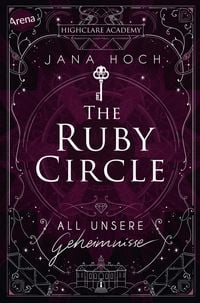
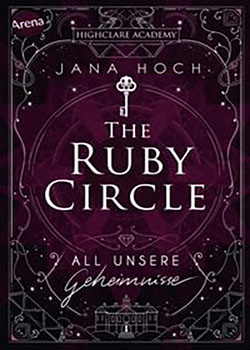
Bilder optimiert

diff --git a/hauptseite.php b/hauptseite.php
@@ -130,7 +130,7 @@
                                 <div class="col-md-3">
                                     <div class="product-item">
                                         <figure class="product-style">
-                                            <img src="bilder/1.jpg" alt="book" class="porduct-item">
+                                            <img src="bilder/12.png" alt="book" class="porduct-item">
                                             <button type="button" class="add-to-cart" data-product-tile="add-to-cart">Warenkorb</button>
                                         </figure>
                                         <figcaption>
